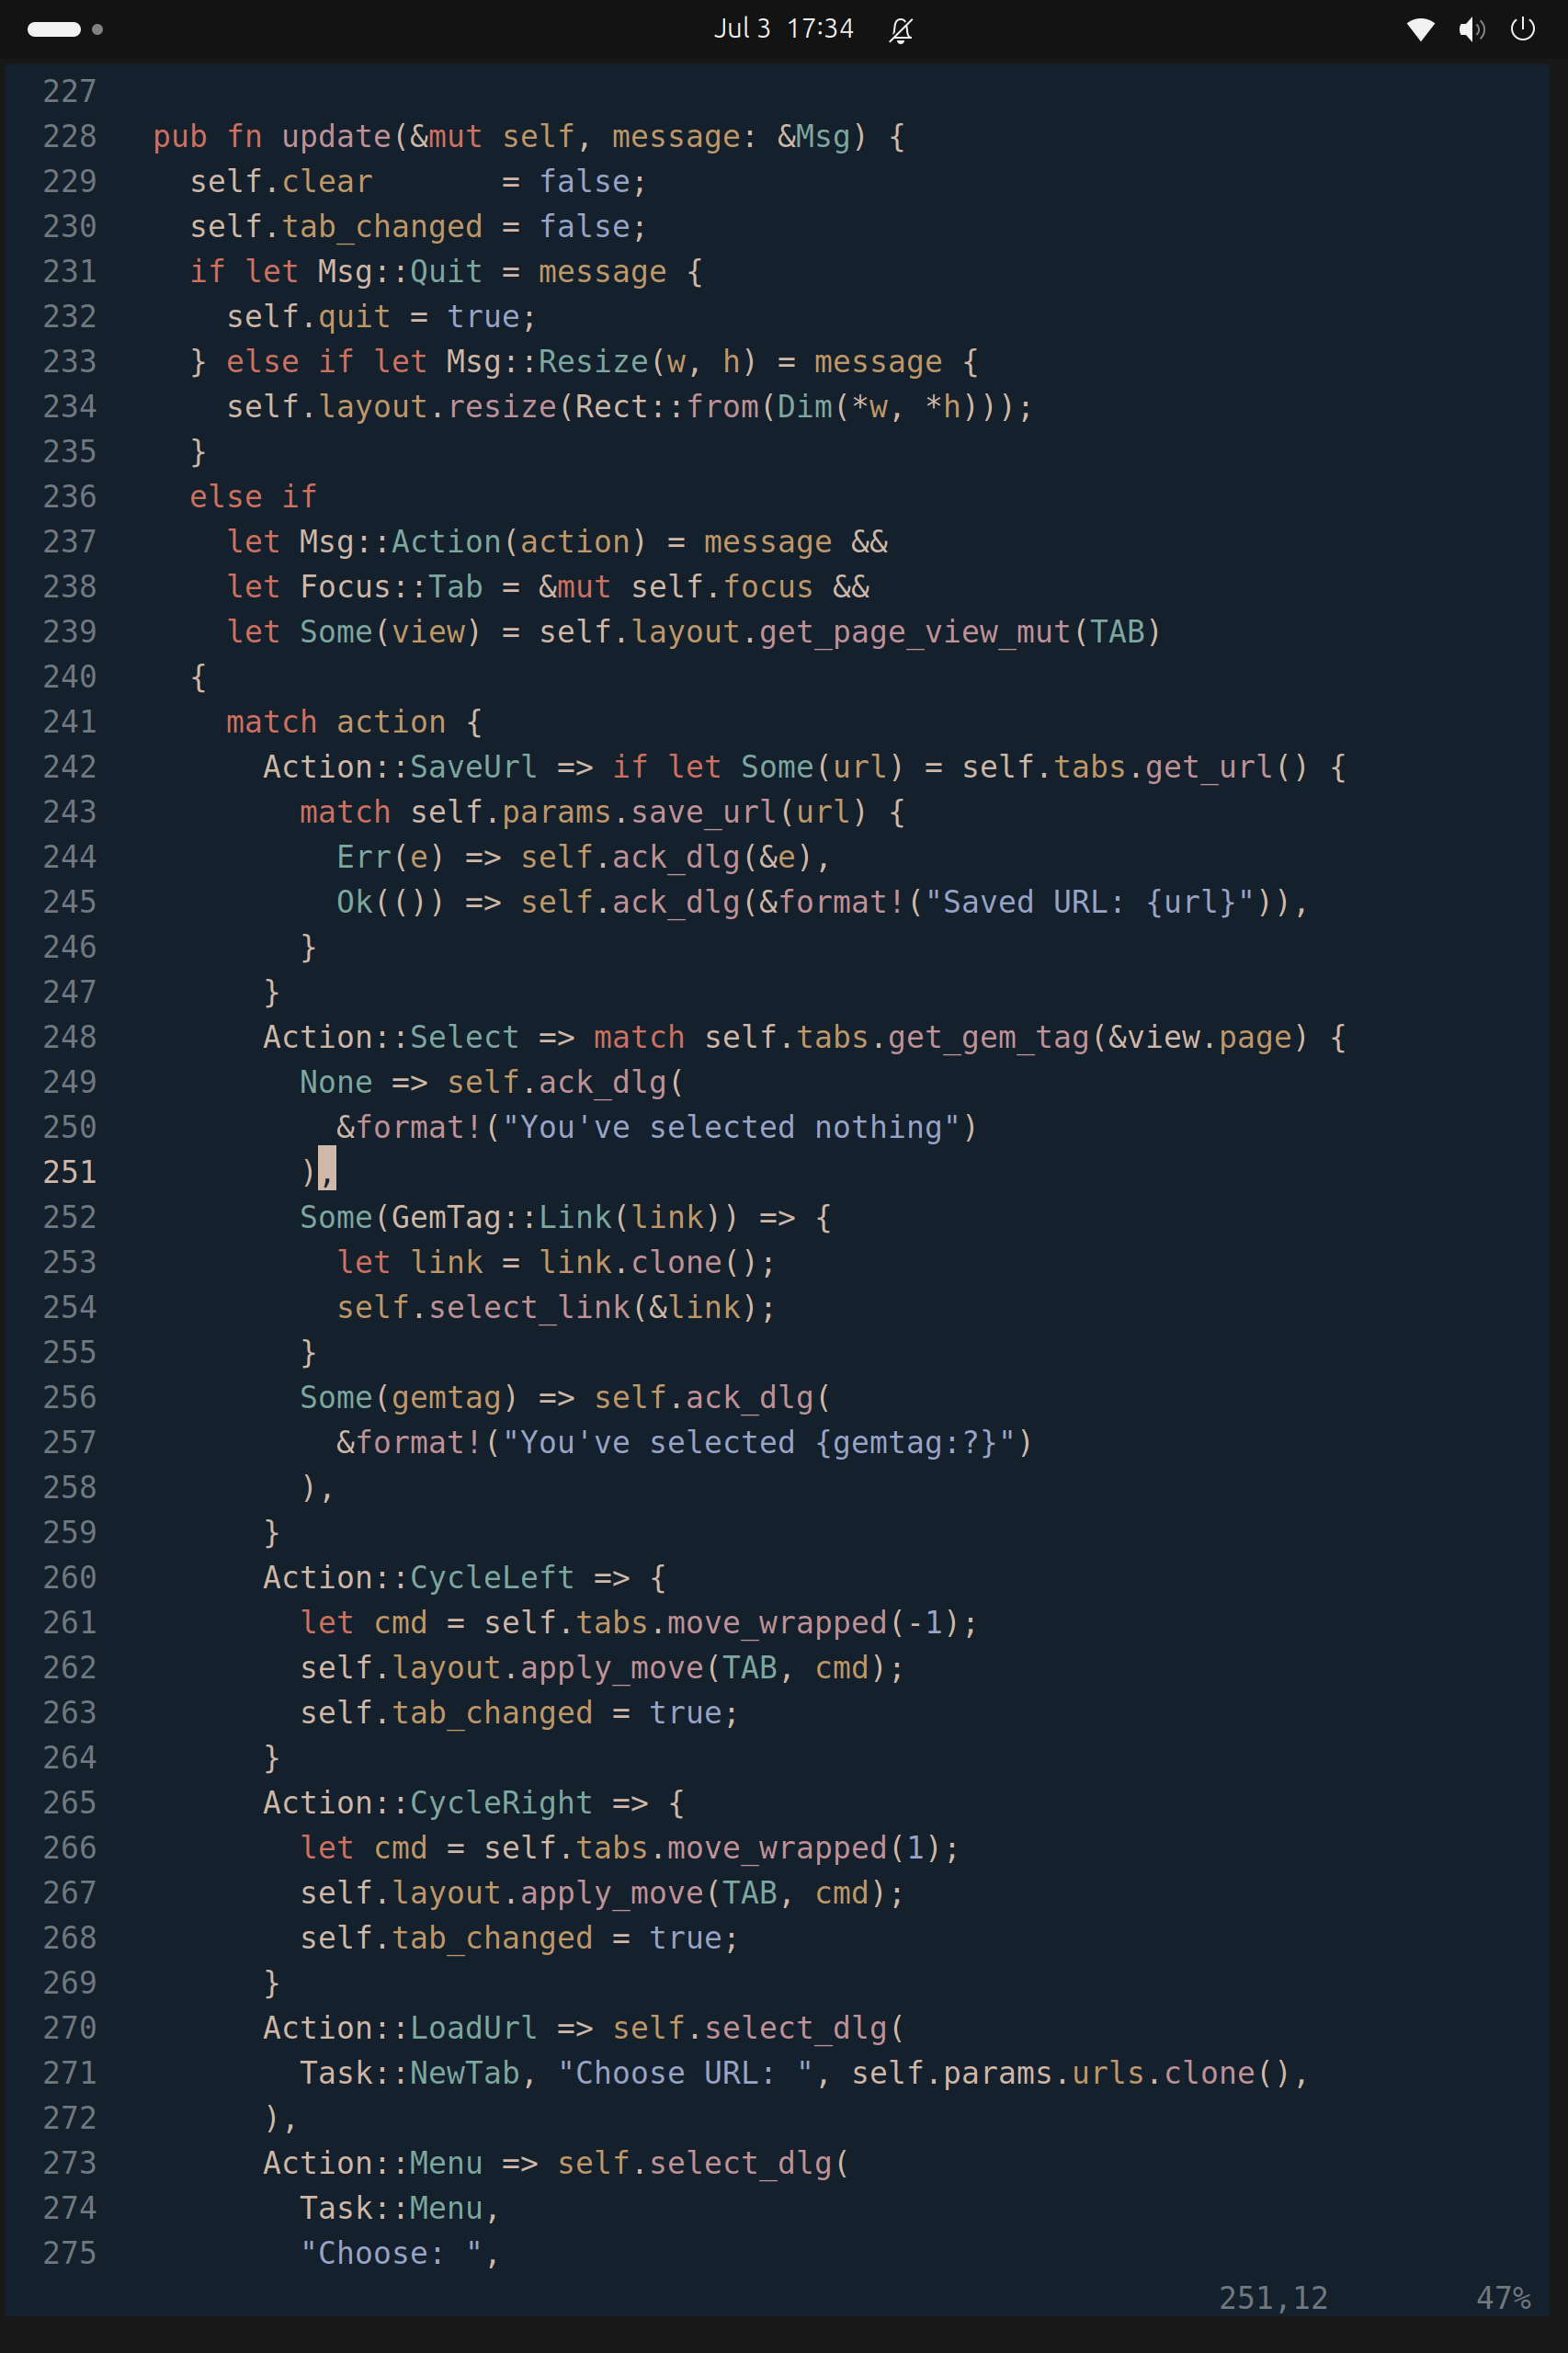
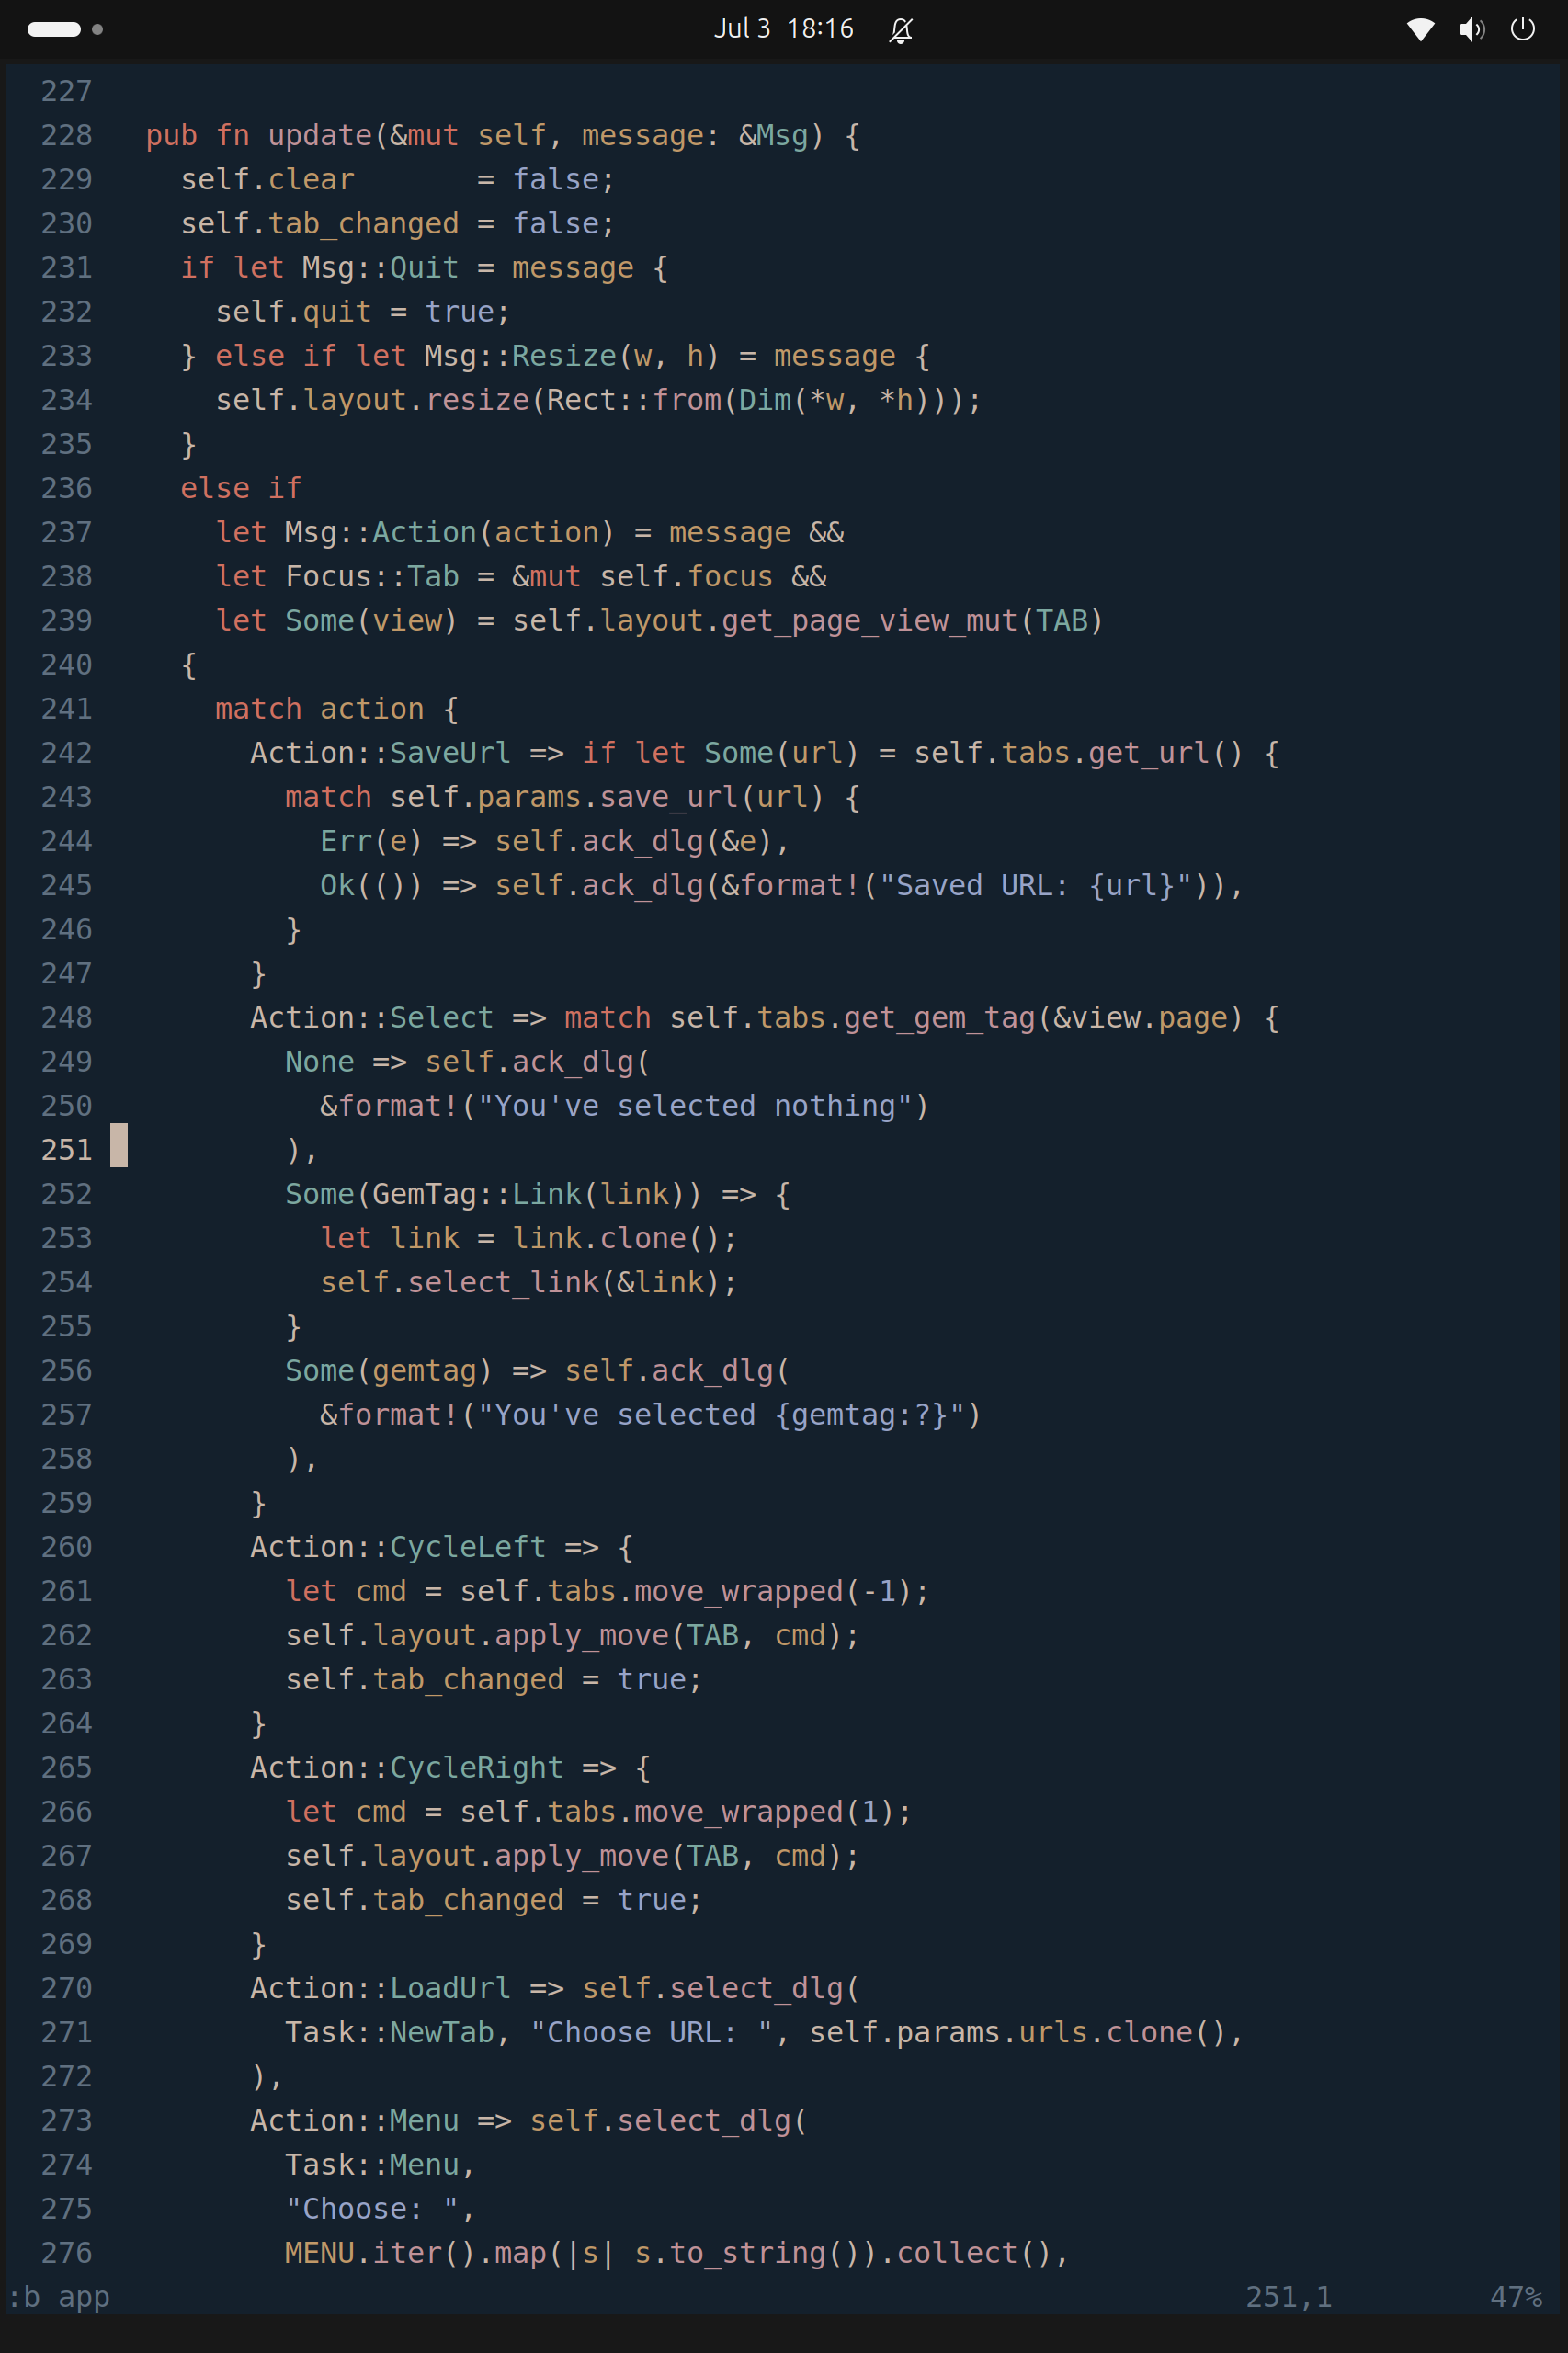
bluejordan pic only

diff --git a/readme.md b/readme.md
@@ -11,15 +11,3 @@
 
 ### bluejordan
 ![bluejordan](pics/bluejordan.png)
-
-### yas
-![yas](pics/yas.png)
-
-### smoothnavy
-![smoothnavy](pics/smoothnavy.png)
-
-### magic
-![magic](pics/magic.png)
-
-### glowingoceanfloor
-![glowingoceanfloor](pics/glowingoceanfloor.png)